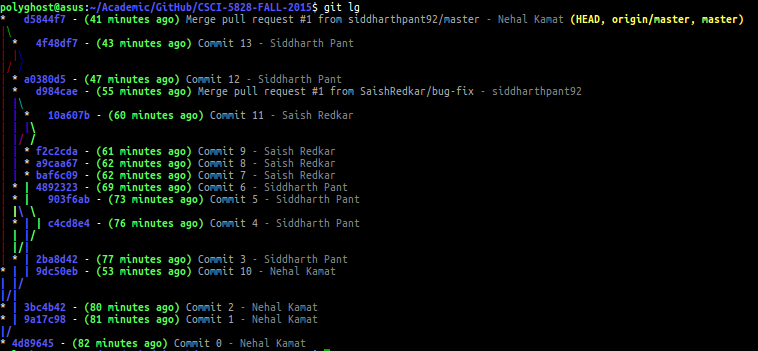
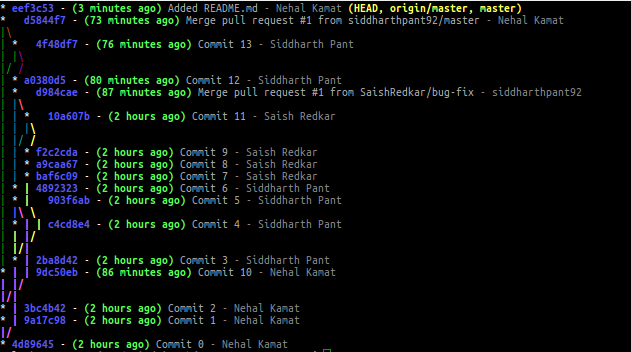
Uploading final commit graph

Changed region(s): [[0.0, 0.0, 0.9937, 1.0], [0.4818, 0.9972, 0.542, 1.0]]

diff --git a/README.md b/README.md
@@ -54,8 +54,14 @@ git commit -m "Commit 11" &nbsp;&nbsp;&nbsp;&nbsp;&nbsp;&nbsp;&nbsp;&nbsp;&nbsp;
 git push origin bug-fix  
 [pull request to Siddharth]
 
+**[Nehal's commits]**
+vi Homework_2.md [on master branch]  
+git add Homework_2.md  
+git commit -m "Commit 10" &nbsp;&nbsp;&nbsp;&nbsp;&nbsp;&nbsp;&nbsp;&nbsp;&nbsp;&nbsp;&nbsp;&nbsp;	[Edit 10]  
+git push origin master
+
 **[Siddharth's commits on his fork]**  
-[pull requests merged]  
+[pull request from Saish merged]  
 git checkout bug-fix  
 vi Homework_2.md		
 git add Homework_2.md  
